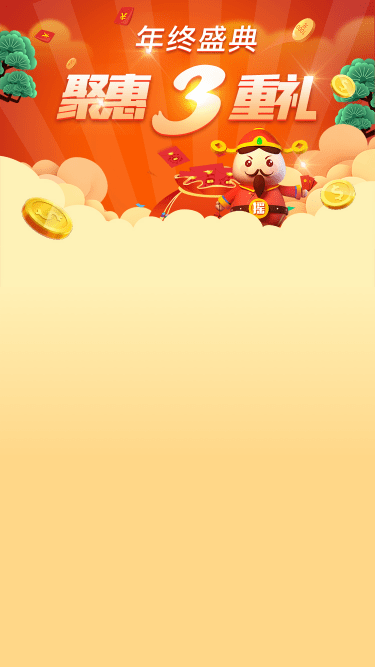
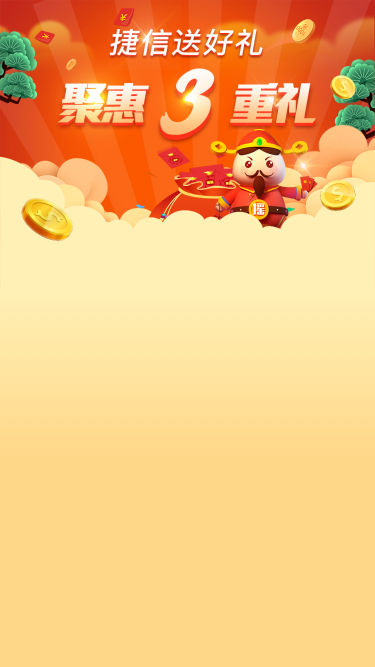
9.1号小修改

diff --git a/src/project/index/pages/Mine/Mine.vue b/src/project/index/pages/Mine/Mine.vue
@@ -8,7 +8,7 @@
         <div class="mineName" v-else @click="goLogin()">点击登录</div>
       </div>
 <!--        原余额，提现显示区域   开始-->
-      <div class="coinCon">
+      <!-- <div class="coinCon">
         <div class="coinItem totalCoin"  @click="goPage('Record','')">
           <div class="count" v-if="totalCoin !=''">{{totalCoin}}金币</div>
           <div class="count" v-else>— —</div>
@@ -25,24 +25,24 @@
             <div class="icon"></div>
           </div>
         </div>
-      </div>
+      </div> -->
         <!--        原余额，提现显示区域   结束-->
 
 <!--        修改后的当前余额显示区域-->
 
 
-<!--        <div class="coinCon">-->
-<!--          <div class="balanceCon">-->
-<!--            <div class="balanceTitle">当前余额(金币)</div>-->
-<!--            <div class="balanceCount">-->
-<!--              <span class="balanceTotal" v-if="Bcoins !=''">{{Bcoins}}金币</span>-->
-<!--              <span class="balanceTotal" v-else>— —</span>-->
-<!--              <span class="balanceRmb"  v-if="Bcoins !=''">约¥{{Bcoins/10000}}元</span>-->
-<!--              <span class="balanceRmb" v-else>— —</span>-->
-<!--            </div>-->
-<!--          </div>-->
-<!--          <div class="applyBtn" @click="gotoCashout()">立即提现</div>-->
-<!--        </div>-->
+        <div class="coinCon">
+          <div class="balanceCon">
+           <div class="balanceTitle">当前余额(金币)</div>
+           <div class="balanceCount">
+             <span class="balanceTotal" v-if="Bcoins !=''">{{Bcoins}}金币</span>
+             <span class="balanceTotal" v-else>— —</span>
+             <span class="balanceRmb"  v-if="Bcoins !=''">约¥{{Bcoins/10000}}元</span>
+             <span class="balanceRmb" v-else>— —</span>
+           </div>
+          </div>
+          <div class="applyBtn" @click="gotoCashout()">立即提现</div>
+        </div>
 
 
 

diff --git a/src/project/index/pages/Mine/ApplyNew.vue b/src/project/index/pages/Mine/ApplyNew.vue
@@ -15,13 +15,13 @@
     <div class="itemCon paddingRight">
       <div class="ItemTitle"><div class="borderIcon"></div>活动提现</div>
       <div class="cashCardCon clearfix">
-        <div class="bubble">双十二活动可提</div>
+        <div class="bubble">限时提现</div>
         <div class="cashCard" :class="{'active' : twelve}" @click="changeTwelve()">¥{{twelveData.amount/100}}元</div>
       </div>
       <div class="tipsCon">
         <div class="down"></div>
-        <div class="tipsTitle">双十二活动提现额度说明：</div>
-        <div class="tipsDetail">该提现额度仅限完成了贝好赚双十二感恩活动中游戏试玩的用户提现</div>
+        <div class="tipsTitle">限时提现说明：</div>
+        <div class="tipsDetail">该提现额度限时开放</div>
       </div>
     </div>
     <div class="itemCon">
@@ -103,7 +103,7 @@
               if(res.code === "0"){
                 let data = res.data.withDrewSetting;
                 for(let i=0;i<data.length;i++){
-                  if(data[i].category === '双十二活动'){
+                  if(data[i].optionType === 'E'){
                     this.twelveData = data[i]
                   }else {
                     this.dataList.push(data[i])

diff --git a/src/project/gift/pages/Gift/GameDetail.vue b/src/project/gift/pages/Gift/GameDetail.vue
@@ -3,7 +3,7 @@
       <div class="gameDetailBg"></div>
       <div class="flowCon">
         <div class="tips fistTips">
-          1、点击“下载游戏”安装捕鱼欢乐颂，登录注册账号并试玩，<span style="color: #D21212">限定安卓操作系统手机可下载试玩(小米手机除外)</span>
+          1、点击“下载游戏”安装鱼潮来了，登录注册账号并试玩，<span style="color: #D21212">限定安卓操作系统手机可下载试玩(小米手机除外)</span>
         </div>
         <div class="tips">
           2、下载游戏后，请运行游戏，参照下图示例，进行截图保存
@@ -121,7 +121,7 @@
         },
         closePop(){
           this.showPopBox = false;
-          window.open('http://qpm.boxiangyx.com/mobile/mp/extension.html?agentId=2000551','_self');
+          window.open('https://pic.3669yx.com/channel/9EE745081D671FED/index.html','_self');
         }
       },
       watch:{

diff --git a/src/project/index/components/Tabs/Tabs.vue b/src/project/index/components/Tabs/Tabs.vue
@@ -12,11 +12,11 @@
         <div class="tabIcon active taskIconActive"></div>
         <div class="tabText">任务</div>
       </router-link>
-      <router-link :to="{name:'Game'}" tag="li">
+      <!-- <router-link :to="{name:'Game'}" tag="li">
         <div class="tabIcon normal gameIcon"></div>
         <div class="tabIcon active gameIconActive"></div>
         <div class="tabText">游戏</div>
-      </router-link>
+      </router-link> -->
       <router-link :to="{name:'Shop'}" tag="li">
         <div class="tabIcon normal shopIcon"></div>
         <div class="tabIcon active shopIconActive"></div>

diff --git a/src/project/gift/pages/Gift/PicUpload.vue b/src/project/gift/pages/Gift/PicUpload.vue
@@ -41,7 +41,7 @@
       <div class="popBox"  v-show="showPopBox">
         <div class="popTitle">说明</div>
         <div class="popCon">
-          1.	贝好赚已经收到您的截图啦，小编紧急审核中，请耐心等待<br>
+          1.	贝好赚已经收到您的截图啦，小编紧急审核中，请耐心等待，结果以短信告知<br>
           2.	点击关闭弹窗，开启三重礼任务，邀请好友可获取第三个红包哦~<br>
         </div>
         <div class="popBtn"  @click="closePop()">关闭</div>

diff --git a/src/project/index/pages/Game/Game.vue b/src/project/index/pages/Game/Game.vue
@@ -3,7 +3,7 @@
     <div class="gameTitleTop"></div>
     <div class="swiperCon">
       <swiper class="swiper" :options="swiperOption" ref="mySwiper">
-        <swiper-slide  v-for="item in bannerImgList">
+        <swiper-slide  v-for="(item,index) in bannerImgList" :key="index">
           <a :href="item.link"><img class="imgCon" v-bind:src="item.imgUrl"></a>
         </swiper-slide>
         <div class="swiper-pagination"  slot="pagination"></div>

diff --git a/src/project/gift/gift.html b/src/project/gift/gift.html
@@ -5,7 +5,7 @@
   <meta content="width=device-width, initial-scale=1.0">
   <link type="image/x-icon" href="/static/favicon.ico" rel="shortcut icon external nofollow"/>
 
-  <title>年终盛典 聚惠三重礼</title>
+  <title>捷信送好礼 聚惠三重礼</title>
 </head>
 <body>
 <div id="app"></div>
